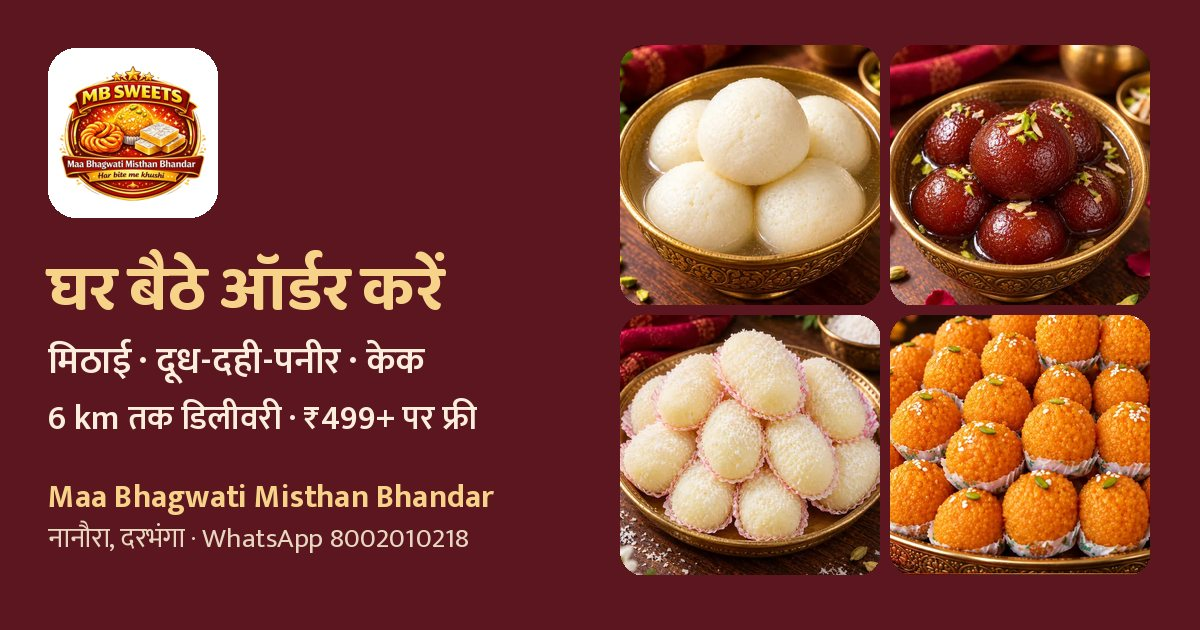
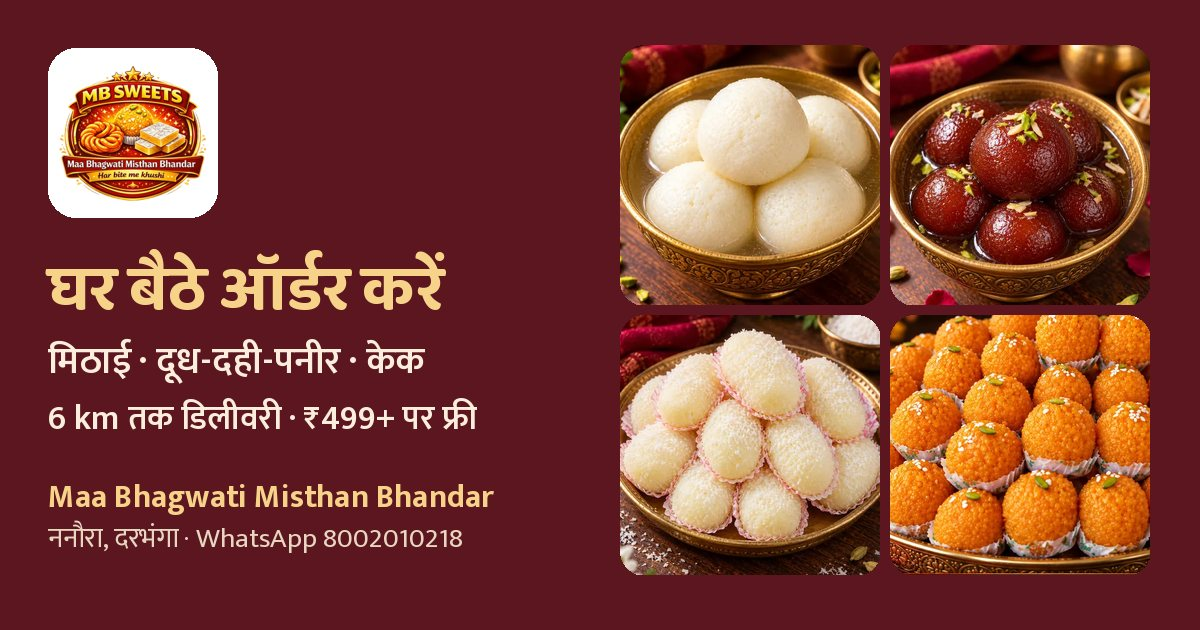
Fix menu scrolling, pay by QR only, add chocolate half kg
- Menu no longer stops at the sweets section: the active-tab highlight moved
  the page while scrolling; tabs now scroll only the tab strip.
- Payment page: shop's QR-type UPI ID rejects one-tap app links, so the page
  now guides customers to save the QR and scan it from the gallery.
- Chocolate cake 1/2 kg Rs 380; rasmalai shown as 1 big piece per plate.
- Village name spelled ननौरा.

Claude-Session: https://claude.ai/code/session_014Vgy3JgfBpM1w22K52KNAp

Changed region(s): [[0.0308, 0.8143, 0.4008, 0.8746]]

diff --git a/order/index.html b/order/index.html
@@ -4,11 +4,11 @@
 <meta charset="utf-8">
 <meta name="viewport" content="width=device-width,initial-scale=1,viewport-fit=cover">
 <title>MB Sweets — ऑर्डर करें | Maa Bhagwati Misthan Bhandar, Nanaura</title>
-<meta name="description" content="Maa Bhagwati Misthan Bhandar (MB Sweets), नानौरा, दरभंगा — मिठाई, दूध-दही-पनीर, केक। 6 km तक घर पर डिलीवरी, ₹499+ पर फ्री। WhatsApp पर सीधे ऑर्डर करें।">
+<meta name="description" content="Maa Bhagwati Misthan Bhandar (MB Sweets), ननौरा, दरभंगा — मिठाई, दूध-दही-पनीर, केक। 6 km तक घर पर डिलीवरी, ₹499+ पर फ्री। WhatsApp पर सीधे ऑर्डर करें।">
 <meta name="theme-color" content="#5C1620">
 <meta property="og:type" content="website">
 <meta property="og:title" content="MB Sweets — घर बैठे ऑर्डर करें">
-<meta property="og:description" content="मिठाई · दूध-दही-पनीर · केक — नानौरा, दरभंगा। 6 km तक डिलीवरी, ₹499+ पर फ्री।">
+<meta property="og:description" content="मिठाई · दूध-दही-पनीर · केक — ननौरा, दरभंगा। 6 km तक डिलीवरी, ₹499+ पर फ्री।">
 <meta property="og:image" content="https://mbsweets.github.io/mb-sweets/order/img/og.jpg">
 <meta property="og:url" content="https://mbsweets.github.io/mb-sweets/order/">
 <link rel="manifest" href="manifest.json">
@@ -39,7 +39,7 @@
   --red:#FF9189; --redbg:#3B1C1C; --tile1:#3A2A1E; --tile2:#2A1D15;
 }
 *{box-sizing:border-box}
-html{background:var(--paper);-webkit-text-size-adjust:100%;scroll-behavior:smooth;scroll-padding-top:64px}
+html{background:var(--paper);-webkit-text-size-adjust:100%;scroll-padding-top:64px}
 body{margin:0;background:var(--paper);color:var(--ink);font-family:'Mukta',system-ui,-apple-system,'Segoe UI',Roboto,sans-serif;font-size:16px;line-height:1.45}
 body.noscroll{overflow:hidden}
 button,input,textarea,select{font:inherit;color:inherit}
@@ -297,9 +297,10 @@ hi:{
  upi_id:'UPI ID',copy:'कॉपी करें',copied:'कॉपी हो गया ✓',copy_fail:'कॉपी नहीं हुआ — UPI ID खुद लिख लें',
  open_upi:'UPI ऐप में पेमेंट करें',save_qr:'⬇ QR फोटो सेव करें',
  pay_how:'पेमेंट कैसे करें',
- pay_h1:'"कॉपी करें" दबाएं → Google Pay / PhonePe / Paytm खोलें → "UPI ID पर भेजें" में चिपकाएं।',
- pay_h2:'या QR फोटो सेव करें → UPI ऐप में "स्कैन" → "गैलरी से" वही फोटो चुनें।',
- pay_h3:'दूसरे फ़ोन से सीधे यह QR स्कैन भी कर सकते हैं।',
+ pay_h1:'ऊपर "QR फोटो सेव करें" दबाएं।',
+ pay_h2:'Google Pay / PhonePe / Paytm खोलें → "स्कैन" → गैलरी (🖼) से वही फोटो चुनें → रकम डालकर पेमेंट करें।',
+ pay_h3:'या किसी दूसरे फ़ोन से सीधे यह QR स्कैन कर लें।',
+ pay_id_note:'यह दुकान का QR वाला UPI है — पेमेंट QR स्कैन करके ही करें। सीधे बटन/लिंक से यह पेमेंट नहीं लेता।',
  pay_ss:'पेमेंट के बाद स्क्रीनशॉट WhatsApp पर भेजें',pay_wa:'💬 स्क्रीनशॉट भेजें',pay_wa_text:'नमस्ते, मैंने पेमेंट कर दिया है{a}। स्क्रीनशॉट भेज रहा/रही हूँ।',
  bulk_h:'बड़ा ऑर्डर पूछें',b_event:'मौका',b_events:['शादी','तिलक / सगाई','जन्मदिन','पूजा / भोज','श्राद्ध','अन्य'],b_date:'तारीख',b_place:'जगह (गाँव / शहर)',b_what:'क्या-क्या और कितना',b_what_ph:'जैसे: रसगुल्ला 500 पीस, पेड़ा 10 किलो, दही 15 किलो',b_send:'💬 WhatsApp पर पूछें',e_bwhat:'क्या-क्या चाहिए, लिखें।',
  ck_weight:'वज़न',ck_weights:['½ किलो','1 किलो','1½ किलो','2 किलो','3 किलो या ज़्यादा'],ck_flavour:'फ्लेवर',ck_flavours:['वनीला','चॉकलेट','बटरस्कॉच','पाइनएप्पल','रेड वेलवेट','रसमलाई'],
@@ -400,9 +401,10 @@ en:{
  upi_id:'UPI ID',copy:'Copy',copied:'Copied ✓',copy_fail:'Could not copy — please note the UPI ID',
  open_upi:'Pay in UPI app',save_qr:'⬇ Save QR photo',
  pay_how:'How to pay',
- pay_h1:'Tap "Copy" → open Google Pay / PhonePe / Paytm → paste in "Pay to UPI ID".',
- pay_h2:'Or save the QR photo → in the UPI app tap "Scan" → "from gallery" and pick it.',
- pay_h3:'You can also scan this QR from another phone.',
+ pay_h1:'Tap "Save QR photo" above.',
+ pay_h2:'Open Google Pay / PhonePe / Paytm → "Scan" → pick the photo from gallery (🖼) → enter amount and pay.',
+ pay_h3:'Or scan this QR directly from another phone.',
+ pay_id_note:'This is the shop\'s QR-type UPI — please pay by scanning the QR. It does not accept payment from a direct button/link.',
  pay_ss:'After paying, send the screenshot on WhatsApp',pay_wa:'💬 Send screenshot',pay_wa_text:'Hello, I have made the payment{a}. Sending the screenshot.',
  bulk_h:'Ask for a big order',b_event:'Occasion',b_events:['Wedding','Tilak / Engagement','Birthday','Puja / Feast','Shraddh','Other'],b_date:'Date',b_place:'Place (village / town)',b_what:'What and how much',b_what_ph:'e.g. Rasgulla 500 pcs, Peda 10 kg, Dahi 15 kg',b_send:'💬 Ask on WhatsApp',e_bwhat:'Write what you need.',
  ck_weight:'Weight',ck_weights:['½ kg','1 kg','1½ kg','2 kg','3 kg or more'],ck_flavour:'Flavour',ck_flavours:['Vanilla','Chocolate','Butterscotch','Pineapple','Red velvet','Rasmalai'],
@@ -649,7 +651,7 @@ function lineName(l,lang){
   var L=lang||st.lang;
   var base=L==='en'?(l.card.en||l.card.hi):l.card.hi;
   var opts=optsOf(l.card);
-  if(l.opt.hi)return base+' ('+(L==='en'?l.opt.en:l.opt.hi)+')';
+  if(l.opt.hi&&opts.length>1)return base+' ('+(L==='en'?l.opt.en:l.opt.hi)+')';
   if(opts.length>1&&l.item.unit==='पीस')return base+(L==='en'?' (pieces)':' (पीस)');
   return base;
 }
@@ -764,16 +766,24 @@ function renderCartBar(){
   var tot=pricedTotal(),asks=st.custom.length;
   bar.innerHTML='<button data-act="go" data-v="cart"><span>🛒 '+t('items_n',{n:n})+(tot>0?' · '+rupee(tot):'')+(asks?'<small>'+t('ask_n',{n:asks})+'</small>':'')+'</span><span class="go">'+t('cart_next')+'</span></button>';
 }
-var spyObs=null;
+function setActiveTab(k){
+  $all('.tab').forEach(function(b){b.classList.toggle('on',b.getAttribute('data-t')===k);});
+  var on=$('.tab.on'),strip=$('.tabs .wrap');
+  if(on&&strip){
+    var left=on.offsetLeft-(strip.clientWidth-on.offsetWidth)/2;
+    strip.scrollLeft=Math.max(0,left);
+  }
+}
+var spyObs=null,spyPause=0;
 function setupSpy(){
   if(spyObs){spyObs.disconnect();spyObs=null;}
   if(!('IntersectionObserver' in window))return;
   spyObs=new IntersectionObserver(function(entries){
+    if(Date.now()<spyPause)return;
     entries.forEach(function(e){
       if(!e.isIntersecting)return;
       var k=e.target.id.replace('sec-','');
-      $all('.tab').forEach(function(b){b.classList.toggle('on',b.getAttribute('data-t')===k);});
-      var on=$('.tab.on');if(on&&on.scrollIntoView)try{on.scrollIntoView({block:'nearest',inline:'center'});}catch(x){}
+      setActiveTab(k);
     });
   },{rootMargin:'-45% 0px -50% 0px'});
   $all('section.sec').forEach(function(s){spyObs.observe(s);});
@@ -1061,11 +1071,11 @@ function payBlock(amount,beforeConfirm){
   return '<div class="blk"><h3>'+t('pay_h')+'</h3>'+
     (amount>0?'<div class="hint" style="text-align:center">'+t('pay_amt')+'</div><div class="amt">'+rupee(amount)+'</div>':'')+
     (beforeConfirm?'<div class="paynote" style="margin-top:6px">'+t('pay_after')+'</div>':'')+
-    '<div class="upibox"><span class="hint" style="margin:0">'+t('upi_id')+'</span><code id="upiText">'+esc(S.upi)+'</code><button class="btn small" data-act="copyupi">'+t('copy')+'</button></div>'+
-    (amount>0?'<a class="btn primary block" style="margin-top:8px" href="'+esc(upiLink(amount))+'">'+t('open_upi')+' — '+rupee(amount)+'</a>':'')+
     '<img class="qrimg" src="img/upi-card.png" alt="UPI QR — '+esc(S.upi)+'">'+
-    '<a class="btn block" style="margin-top:8px" href="img/upi-card.png" download="MB-Sweets-UPI-QR.png">'+t('save_qr')+'</a>'+
+    '<a class="btn primary block" style="margin-top:10px" href="img/upi-card.png" download="MB-Sweets-UPI-QR.png">'+t('save_qr')+'</a>'+
     '<h3 style="margin:14px 0 6px">'+t('pay_how')+'</h3><ol class="steps"><li>'+t('pay_h1')+'</li><li>'+t('pay_h2')+'</li><li>'+t('pay_h3')+'</li></ol>'+
+    '<p class="hint" style="margin-top:10px">'+t('pay_id_note')+'</p>'+
+    '<div class="upibox"><span class="hint" style="margin:0">'+t('upi_id')+'</span><code id="upiText">'+esc(S.upi)+'</code><button class="btn small" data-act="copyupi">'+t('copy')+'</button></div>'+
     '</div>';
 }
 function renderPay(amount){
@@ -1185,8 +1195,14 @@ document.addEventListener('click',function(e){
   switch(a){
     case 'lang':st.lang=st.lang==='en'?'hi':'en';save();renderMenu();route();break;
     case 'tab':
-      var sec=document.getElementById('sec-'+el.getAttribute('data-t'));
-      if(sec)sec.scrollIntoView({behavior:'smooth',block:'start'});
+      var tk=el.getAttribute('data-t');
+      var sec=document.getElementById('sec-'+tk);
+      if(sec){
+        var bar=$('.tabs');var off=bar?bar.offsetHeight:56;
+        var y=sec.getBoundingClientRect().top+window.pageYOffset-off+2;
+        setActiveTab(tk);spyPause=Date.now()+900;
+        try{window.scrollTo({top:y,behavior:'smooth'});}catch(x){window.scrollTo(0,y);}
+      }
       break;
     case 'opt':sel[el.getAttribute('data-card')]=+el.getAttribute('data-i');refreshCard(el.getAttribute('data-card'));break;
     case 'inc':case 'dec':

diff --git a/catalog.js b/catalog.js
@@ -11,7 +11,7 @@
   पूरे दिन ऑनलाइन ऑर्डर बंद: pause:true
 */
 window.MB_CATALOG = {
-  version: 2,
+  version: 3,
   updated: '2026-09-29',
 
   shop: {
@@ -23,7 +23,7 @@ window.MB_CATALOG = {
     upiPayload: 'upi://pay?pa=paytmqr71dbbc@ptys&pn=Paytm',
     lat: 26.2379445,
     lng: 85.904298,
-    addrHi: 'नानौरा, दरभंगा, बिहार 846005 · NH किनारे, एयरपोर्ट से ~5 km',
+    addrHi: 'ननौरा, दरभंगा, बिहार 846005 · NH किनारे, एयरपोर्ट से ~5 km',
     addrEn: 'Nanaura, Darbhanga, Bihar 846005 · On NH, ~5 km from airport',
     maps: 'https://www.google.com/maps/search/?api=1&query=26.2379445,85.904298',
     review: 'https://g.page/r/CZ_aeVeX-ilKEBE/review',
@@ -70,7 +70,8 @@ window.MB_CATALOG = {
     ['i25', 'दही (200 ग्राम)', 'dairy', 'पैक', 30, 2],
     ['i26', 'वनीला केक (½ किलो)', 'cake', 'पीस', 350, 2],
     ['i27', 'वनीला केक (1 किलो)', 'cake', 'पीस', 600, 2],
-    ['i28', 'चॉकलेट केक (1 किलो)', 'cake', 'पीस', 700, 2]
+    ['i28', 'चॉकलेट केक (1 किलो)', 'cake', 'पीस', 700, 2],
+    ['i29', 'चॉकलेट केक (½ किलो)', 'cake', 'पीस', 380, 3]
   ],
 
   /* ग्राहक वाले मेन्यू के कार्ड। opts = कौन-कौन से आइटम इस कार्ड में चुन सकते हैं */
@@ -79,7 +80,7 @@ window.MB_CATALOG = {
     { tab: 'sweets', key: 'gulabjamun', hi: 'गुलाब जामुन', en: 'Gulab Jamun', img: 'gulabjamun', opts: ['i5', 'i6'] },
     { tab: 'sweets', key: 'chamcham', hi: 'चमचम', en: 'Cham Cham', img: 'chamcham', opts: ['i7', 'i8'] },
     { tab: 'sweets', key: 'balushahi', hi: 'बालूशाही', en: 'Balushahi', img: 'balushahi', opts: ['i3', 'i4'] },
-    { tab: 'sweets', key: 'rasmalai', hi: 'रसमलाई', en: 'Rasmalai', img: 'rasmalai', opts: ['i22'] },
+    { tab: 'sweets', key: 'rasmalai', hi: 'रसमलाई', en: 'Rasmalai', img: 'rasmalai', opts: [{ id: 'i22', hi: 'प्लेट (1 बड़ा पीस)', en: 'plate (1 big piece)' }] },
     { tab: 'sweets', key: 'peda', hi: 'पेड़ा', en: 'Peda', img: 'peda', opts: ['i9'] },
     { tab: 'sweets', key: 'laddoo', hi: 'लड्डू', en: 'Laddoo', img: 'laddoo', opts: ['i11'] },
     { tab: 'sweets', key: 'milkcake', hi: 'मिल्क केक', en: 'Milk Cake', art: 'milkcake', opts: ['i10'] },
@@ -97,7 +98,7 @@ window.MB_CATALOG = {
     { tab: 'cake', key: 'cake-vanilla', hi: 'वनीला केक', en: 'Vanilla Cake', art: 'cakeVanilla',
       opts: [{ id: 'i26', hi: '½ किलो', en: '½ kg' }, { id: 'i27', hi: '1 किलो', en: '1 kg' }] },
     { tab: 'cake', key: 'cake-choco', hi: 'चॉकलेट केक', en: 'Chocolate Cake', art: 'cakeChoco',
-      opts: [{ id: 'i28', hi: '1 किलो', en: '1 kg' }] }
+      opts: [{ id: 'i29', hi: '½ किलो', en: '½ kg' }, { id: 'i28', hi: '1 किलो', en: '1 kg' }] }
   ],
 
   /* कस्टम केक — दाम WhatsApp पर बताया जाता है */

diff --git a/index.html b/index.html
@@ -1256,8 +1256,8 @@ function webConfirmMessage(o){
     }else{
       L.push('कृपया '+rupee(due)+' का पेमेंट UPI से कर दें, उसके बाद डिलीवरी निकलेगी।');
     }
-    L.push('UPI ID: '+((CATALOG&&CATALOG.shop.upi)||''));
-    L.push('QR / पेमेंट पेज: '+orderPageUrl()+'#pay='+due);
+    L.push('पेमेंट का QR यहाँ है: '+orderPageUrl()+'#pay='+due);
+    L.push('(QR फोटो सेव करके Google Pay / PhonePe / Paytm में "स्कैन" → गैलरी से चुनें)');
     L.push('पेमेंट के बाद स्क्रीनशॉट इसी चैट में भेजें।');
   }else{
     L.push('पेमेंट मिल गया ✅ धन्यवाद!');
